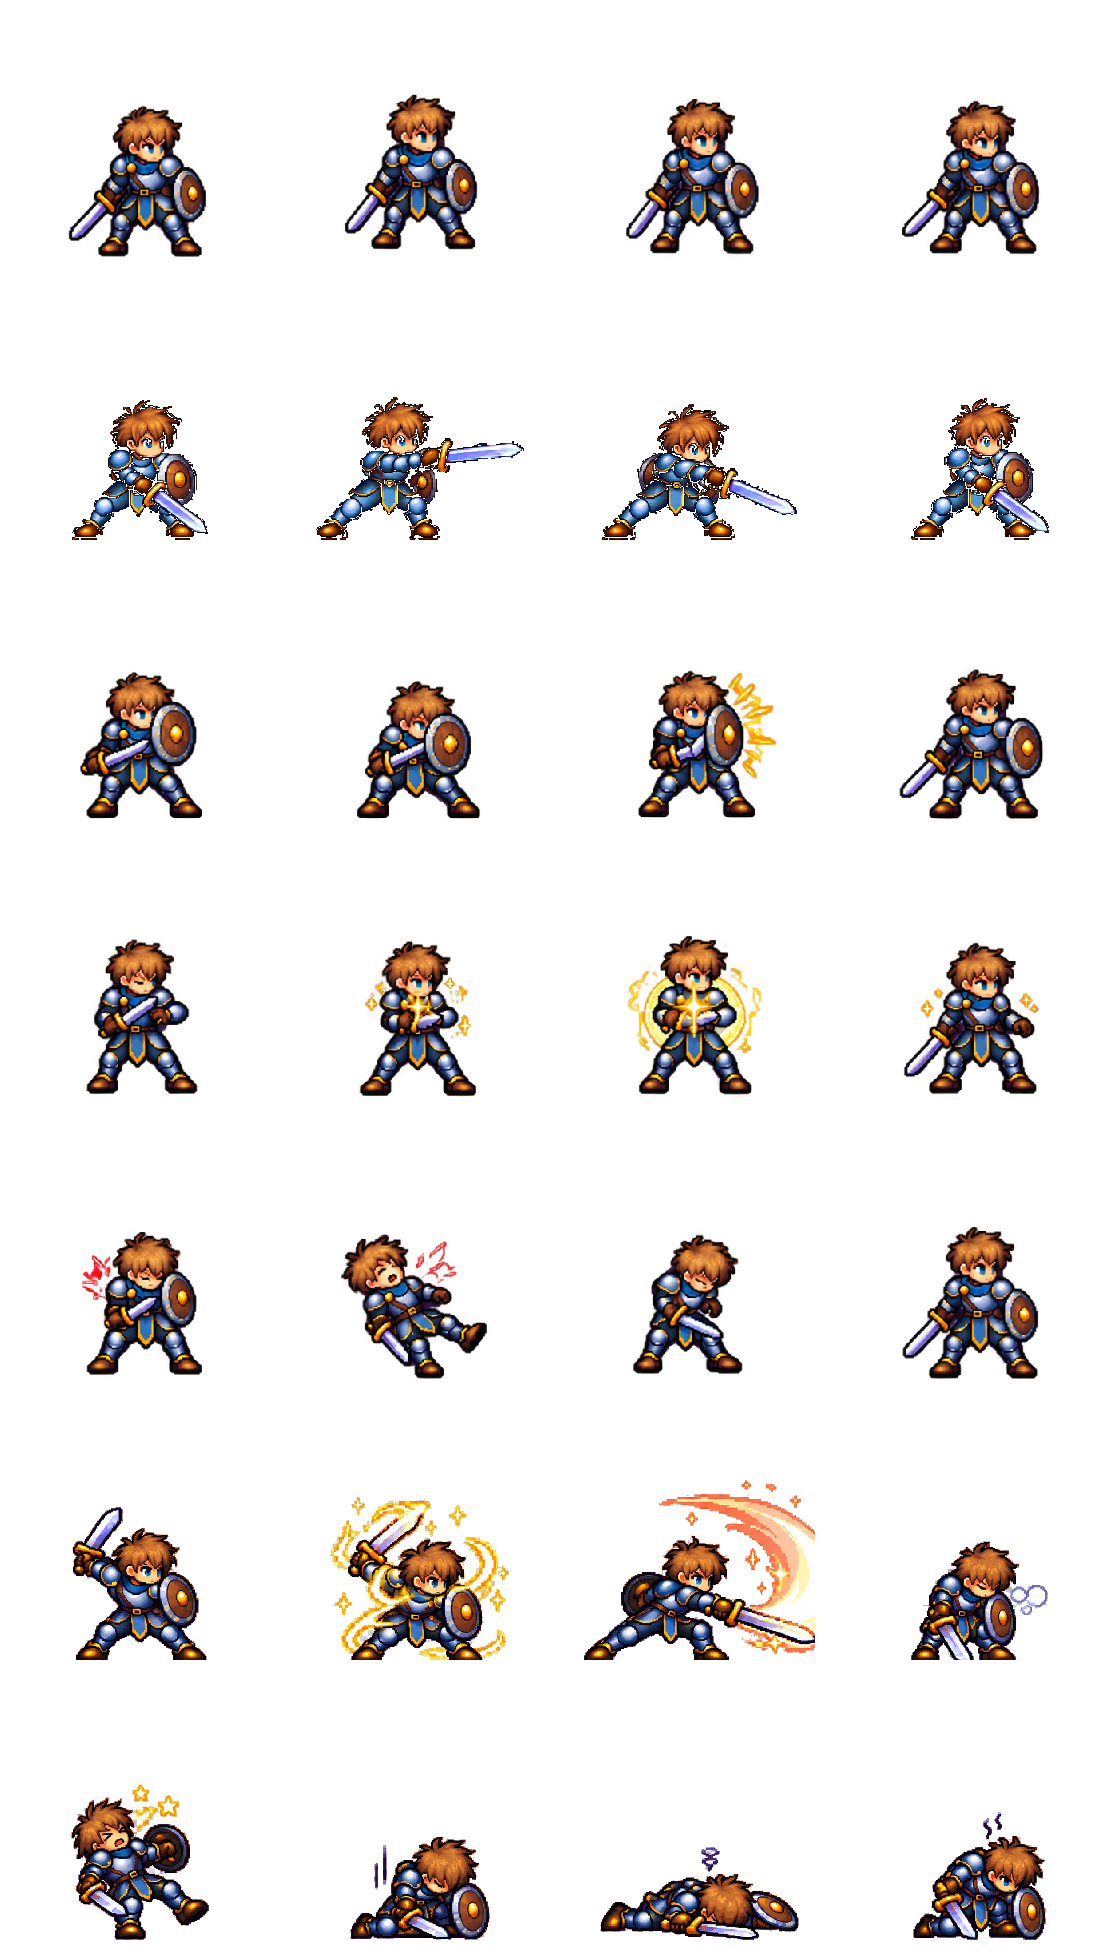
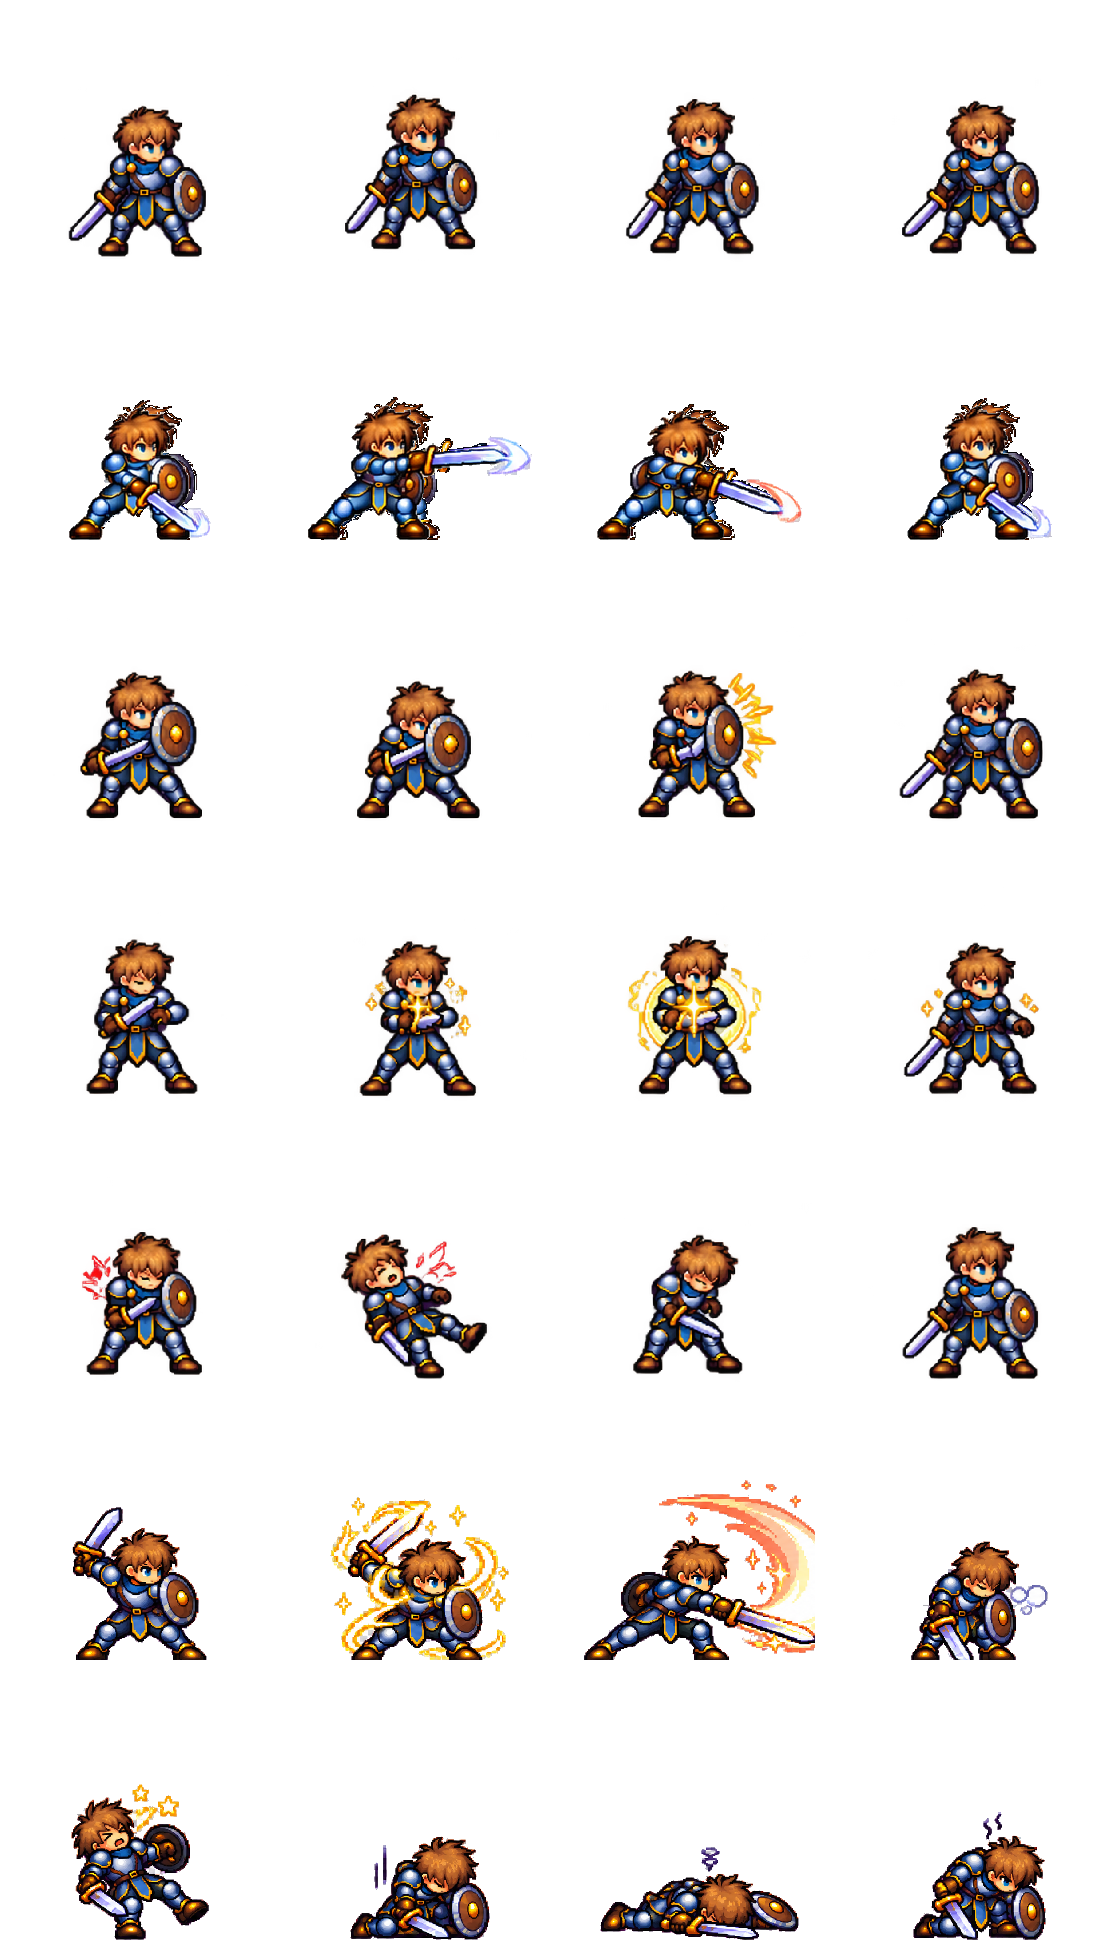
Embed slash in novice attack frames

diff --git a/game.js b/game.js
@@ -219,7 +219,6 @@ class BootScene extends Phaser.Scene {
     this.load.image('skeleton-shrine-keeper', 'assets/skeleton-shrine-keeper.png');
     this.load.image('seal-arbiter', 'assets/seal-arbiter.png');
     this.load.image('combat-effects', 'assets/combat-effects.png');
-    this.load.image('player-slash-effect', 'assets/player-slash-effect.png');
     this.load.image('novice-combat-sheet', 'assets/novice-combat-sheet.png');
     this.load.image('skeleton-combat-sheet', 'assets/skeleton-shrine-keeper-combat-sheet.png');
     this.load.image('goblin-combat-sheet', 'assets/goblin-combat-sheet.png');
@@ -251,15 +250,6 @@ class BootScene extends Phaser.Scene {
     effects.add('attack', 0, 0, 0, 724, 724);
     effects.add('guard', 0, 724, 0, 724, 724);
     effects.add('rhythm', 0, 1448, 0, 724, 724);
-
-    const playerSlash = this.textures.get('player-slash-effect');
-    for (let column = 0; column < 4; column++) playerSlash.add(`slash-${column}`, 0, column * 160, 0, 160, 160);
-    this.anims.create({
-      key: 'player-slash-forward',
-      frames: [0, 1, 2, 3].map(column => ({ key: 'player-slash-effect', frame: `slash-${column}` })),
-      frameRate: 18,
-      repeat: 0,
-    });
 
     const noviceCombat = this.textures.get('novice-combat-sheet');
     ['idle', 'attack', 'guard', 'focus', 'hurt', 'heavy', 'down'].forEach((row, rowIndex) => {
@@ -728,49 +718,6 @@ class BattleScene extends Phaser.Scene {
     this.enemyDownRestingY = null;
   }
 
-  playPlayerSlashTrail(emphatic = false) {
-    // 공격 시트의 검 끝(attack-0~3)을 기준으로, 검기가 검날에서 출발해 전방으로
-    // 이어지게 한다. 각 프레임의 검 끝은 서로 크게 달라 단일 고정 시작점이면 공중에 뜬다.
-    const frames = [
-      // tipX/Y는 280px attack 셀의 실제 검 끝 알파 픽셀이다.
-      { delay: 0,   tipX: 207, tipY: 252, left: 41, scale: .54, angle: 18, progress: 0,  alpha: .82 },
-      { delay: 84,  tipX: 243, tipY: 169, left: 20, scale: .86, angle: -4, progress: 28, alpha: 1 },
-      { delay: 168, tipX: 236, tipY: 232, left: 25, scale: .92, angle: 16, progress: 60, alpha: .96 },
-      { delay: 252, tipX: 208, tipY: 250, left: 52, scale: .58, angle: 22, progress: 88, alpha: .68 },
-    ];
-    let effect = null;
-    const showFrame = index => {
-      if (!this.playerFigure?.active) return;
-      const frame = frames[index];
-      // attack 셀 좌표를 스프라이트 원점·표시 스케일·반전까지 포함한 월드 좌표로 바꾼다.
-      // 플레이어는 현재 우향이지만, 후속 방향 전환에서도 같은 앵커 식을 유지한다.
-      const player = this.playerFigure;
-      const scaleX = Math.abs(player.scaleX) * (player.flipX ? -1 : 1);
-      const scaleY = Math.abs(player.scaleY) * (player.flipY ? -1 : 1);
-      const tipWorldX = player.x + (frame.tipX - player.displayOriginX) * scaleX;
-      const tipWorldY = player.y + (frame.tipY - player.displayOriginY) * scaleY;
-      const angle = player.flipX ? 180 - frame.angle : frame.angle;
-      const distance = frame.progress * Math.abs(player.scaleX);
-      const radians = Phaser.Math.DegToRad(angle);
-      const centerX = tipWorldX + Math.cos(radians) * distance;
-      const centerY = tipWorldY + Math.sin(radians) * distance;
-      if (!effect) {
-        effect = this.add.sprite(centerX, centerY, 'player-slash-effect', 'slash-0').setDepth(14);
-        // 수동 프레임 앵커를 쓰되, 검격 전용 애니메이션 식별자는 유지한다.
-        effect.play('player-slash-forward');
-        effect.anims.pause();
-      }
-      // slash의 알파 바운드 좌단(left, 80)을 원점으로 써서 보이는 첫 픽셀이 검 끝에 닿는다.
-      effect.setFrame(`slash-${index}`).setOrigin(frame.left / 160, .5).setPosition(centerX, centerY).setScale(frame.scale).setAngle(angle).setAlpha(frame.alpha);
-    };
-    showFrame(0);
-    frames.slice(1).forEach((frame, index) => this.scheduleResolution(frame.delay, () => showFrame(index + 1)));
-    this.scheduleResolution(330, () => {
-      if (effect?.active) effect.destroy();
-      effect = null;
-    });
-  }
-
   collapseEnemyCharge() {
     if (!this.enemyFigure?.active) return;
     const figure = this.enemyFigure;
@@ -992,7 +939,6 @@ class BattleScene extends Phaser.Scene {
     const beginPlayerStrike = () => {
       this.setPlayerPose(action === 'finisher' ? 'heavy' : 'attack', true);
       this.animateLunge('player', action === 'finisher');
-      if (action === 'attack') this.playPlayerSlashTrail();
       if (action === 'finisher') this.cameras.main.shake(110, .004);
       audio.play(action === 'finisher' ? 'finisher' : 'attack');
     };
